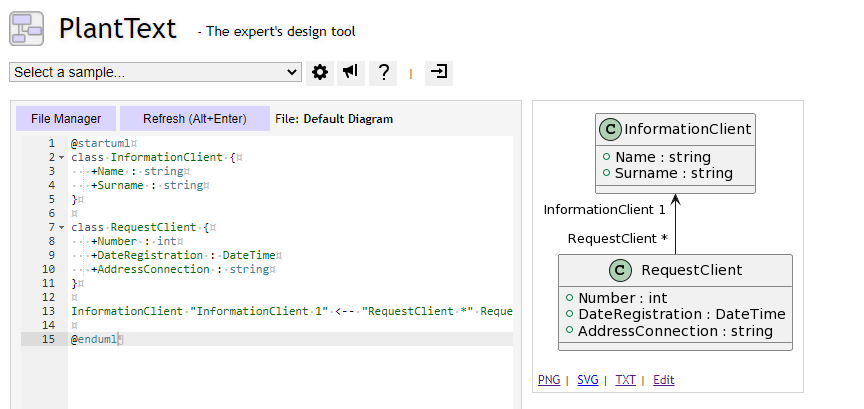
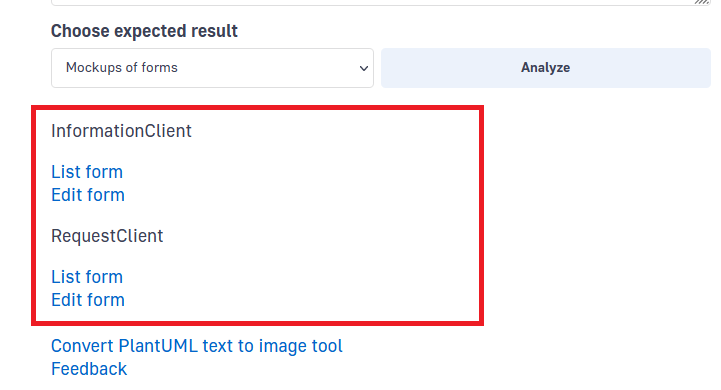
Update site

diff --git a/index.html b/index.html
@@ -70,6 +70,12 @@
   <li class="nav-item">
     <a class="nav-link" href="#how-it-works">How it works</a>
   </li>
+  <li class="nav-item">
+    <a class="nav-link" href="#benefits">Advantages</a>
+  </li>
+  <li class="nav-item">
+    <a class="nav-link" href="#why">Why are we?</a>
+  </li>
 </ul>
     </div><!--.nav-collapse -->
   </div>
@@ -81,10 +87,14 @@
   <div class="leaf d-none"></div>
   <div class="container">
     <h1>AI Assistant for Business Analyst</h1>
-    <p> This helps to reduce 30% of the time business analyst uses for processing requirements <br> and also to generate artifacts. </p>
+    <p> 
+      making it easier and faster for business analysts and other specialists like UI/UX designers to analyze text, 
+      <br>and to generate mockup forms, SQL script and UML diagrams in a minute. 
+    </p>
     <div class="row">
-      <div class="col-lg-6">
-        <a class="btn btn-primary" href="" data-toggle="modal" data-target="#send-modal">Get in touch</a>
+      <div class="col-lg-6 buttons-list">
+        <a class="btn btn-primary" href="" data-toggle="modal" data-target="#send-modal">Purchase</a>
+        <a class="btn btn-primary" href="https://ai-api.flexberry.net/www/demo.html" target="_blank">Demo</a>
       </div>
     </div>
   </div>
@@ -93,8 +103,10 @@
 <section id="about" class="mt-5">
   <div class="container">
     <h1>AI Assistant</h1>
-    <p> An assistant that allows, through artificial intelligence automate some part of the analyst's daily routine work.</p>
-    <h2>Benefits of the AI Assistant</h2>
+    <p>
+      An AI Assistant that allows, through artificial intelligence automate some part of analysts and UI/UX designers day-to day work relating to text.
+    </p>
+    <h2>Features of the AI Assistant</h2>
        <div class="row checked-list">
       <div class="col-xl-4 col-lg-6 col-md-6 col-sm-6 col-12">
         Extracting information from natural language to build an information system
@@ -120,11 +132,14 @@
 
 <section>
   <div class="container">
-    <p>The AI Assistant does not imply a complete replacement of humans, but rather an assistance – reducing the daily routine time performed on texts.
-      Currently, it is a Prototype, which allow to parse a text, build UML Class Diagram and SQL for database. The approach allows a convenient expansion of the set of entities that can be built as a result.</p>
+    <p>
+      As the name suggests, the AI Assistant is for assisting and not completely replacing human task. Reducing the time needed to execute some tasks.
+      Currently, the AI is able to analyze several texts and generate mockup forms, SQL scripts and UML diagrams. We are still developing the product to understand and analyze more texts.
+    </p>
     <div class="row">
-      <div class="col-lg-12 text-center">
-        <a class="btn btn-primary" href="" data-toggle="modal" data-target="#send-modal">Find out more</a>
+      <div class="col-lg-12 text-center buttons-list">
+        <a class="btn btn-primary" href="" data-toggle="modal" data-target="#send-modal">Purchase</a>
+        <a class="btn btn-primary" href="https://ai-api.flexberry.net/www/demo.html" target="_blank">Demo</a>
       </div>
     </div>
   </div>
@@ -134,11 +149,15 @@
   <div class="container">
     <h1>Result</h1>
     <div class="row">
-      <div class="col-lg-6 col-md-6 col-sm-6 col-12">
+      <div class="col-lg-4 col-md-4 col-sm-6 col-12">
+        <img src="/img/interface.svg"/>
+        <span>Mockup forms (both list and edit forms)</span>
+      </div>
+      <div class="col-lg-4 col-md-4 col-sm-6 col-12">
         <img src="/img/flow.svg"/>
         <span>Class diagram</span>
       </div>
-      <div class="col-lg-6 col-md-6 col-sm-6 col-12">
+      <div class="col-lg-4 col-md-4 col-sm-6 col-12">
         <img src="/img/database.svg"/>
         <span>Database </span>
       </div>
@@ -154,19 +173,86 @@
         <img class="img-fluid" src="/img/howitwork1.png"/>
       </div>
       <div class="col-lg-6 col-md-6 col-sm-6 col-12">
-    <span>The AI Assistant is currently a plugin in Google Chrome browser.</span>
+        <p>The AI Assistant is presented on <a href="https://ai-api.flexberry.net/www/demo.html" target="_blank">demo-page</a>.</p>
+        <p>The text should be inserted at corresponding field.</p>
+        <p>Then it is send for processing at AI-algorithm. And the result is presented to the user.</p>
       </div>
       <div class="col-lg-6 col-md-6 col-sm-6 col-12 order-md-2">
-        <img class="img-fluid" src="/img/howitwork2.png"/></span>
+        <img class="img-fluid" src="/img/howitwork2.png"/>
+        </span>
       </div>
       <div class="col-lg-6 col-md-6 col-sm-6 col-12 order-md-1">
-        <span>The selected text via the plugin is analyzed by the AI Assistant (1), and the result is copied and sent for further processing (2).</span>
+        <p>There are several variants of desired results of text processing.</p>
       </div>
       <div class="col-lg-6 col-md-6 col-sm-6 col-12 order-md-2">
         <img class="img-fluid" src="/img/howitwork3.png"/>
       </div>
       <div class="col-lg-6 col-md-6 col-sm-6 col-12 order-md-2">
-        <span>It is possible to insert text directly into the plugin window, or copy the text from any page and insert into the plugin to analyse. In planttext.com the result is a class diagram with relations.</span>
+        <p>For example if "Mockups of forms" is selected then there will be a list of generated mockups: list form and edit form for each recognized class.</p>
+      </div>
+      <div class="col-12 order-md-2">
+        <img class="img-fluid" src="/img/howitwork4.png"/>
+      </div>
+      <div class="col-12 order-md-2">
+        <img class="img-fluid" src="/img/howitwork5.png"/>
+      </div>
+    
+      <div class="col-lg-6 col-md-6 col-sm-6 col-12  order-md-2">
+        <img class="img-fluid" src="/img/howitwork6.png"/>
+      </div>
+      <div class="col-lg-6 col-md-6 col-sm-6 col-12  order-md-2">
+        <p>If "UML class diagram" is selected then processed result may be copied and send to further processing.</p>
+      </div>
+      <div class="col-lg-6 col-md-6 col-sm-6 col-12 order-md-3">
+        <img class="img-fluid" src="/img/howitwork7.png"/>
+      </div>
+      <div class="col-lg-6 col-md-6 col-sm-6 col-12 order-md-2">
+        <p>For example to <a href="https://www.planttext.com/" target="_blank">planttext.com</a>. It will be UML class diagram as result.</p>
+      </div>
+    </div>
+  </div>
+</section>
+
+<section id="benefits">
+  <div class="container">
+    <h1>Advantages</h1>
+    <div class="row checked-list">
+      <div class="col-xl-6 col-lg-6 col-md-6 col-sm-6 col-12">
+        Flexible and easy to master the instrument
+      </div>
+      <div class="col-xl-6 col-lg-6 col-md-6 col-sm-6 col-12">
+        Ability for the AI Assistant to adapt to specific tasks of your company
+      </div>
+      <div class="col-xl-6 col-lg-6 col-md-6 col-sm-6 col-12">
+        Using different scenarios – analysis, design formulation of statements, etc.
+      </div>
+      <div class="col-xl-6 col-lg-6 col-md-6 col-sm-6 col-12">
+        Designing according to industry best practice and requirements
+      </div>
+    </div>
+</section>
+
+<section id="why" class="mb-5">
+  <div class="container">
+    <h1>Wнy are we?</h1>
+    <div class="row">
+      <div class="worth-item col-md-4 col-sm-6 col-6">
+        <img class="img-fluid" src="/img/ai.svg"/>
+        <span>Working in collaboration with scientists and AI experts</span>
+      </div>
+      <div class="worth-item col-md-4 col-sm-6 col-6">
+        <img class="img-fluid" src="/img/business.svg"/>
+        <span>Deeper understanding of business analyst problems because of a close working with analyst from our partnering companies.</span>
+      </div>
+      <div class="worth-item col-md-4 col-sm-6 col-6">
+        <img class="img-fluid" src="/img/cup.svg"/>
+        <span>A decade experience in developing complex applications and services for IT industry</span>
+      </div>
+    </div>
+    <div class="row">
+      <div class="col-lg-12 text-center buttons-list">
+        <a class="btn btn-primary" href="" data-toggle="modal" data-target="#send-modal">Purchase</a>
+        <a class="btn btn-primary" href="https://ai-api.flexberry.net/www/demo.html" target="_blank">Demo</a>
       </div>
     </div>
   </div>
@@ -177,15 +263,14 @@
   <div class="modal-dialog modal-lg">
     <div class="modal-content">
       <div class="modal-header">
-        <h2 class="modal-title">Demo Request</h2>
+        <h2 class="modal-title">Purchase request</h2>
         <button type="button" class="close" data-dismiss="modal" aria-label="Close">
           <span aria-hidden="true">&times;</span>
         </button>
       </div>
       <div class="modal-body">
         <div class="container">
-
-            <script src="https://yastatic.net/s3/frontend/forms/_/embed.js"></script><iframe src="https://forms.yandex.com/u/623ac0eae1900d5a090e3f89/?iframe=1" frameborder="0" name="ya-form-623ac0eae1900d5a090e3f89" width="650"></iframe>
+            <script src="https://yastatic.net/s3/frontend/forms/_/embed.js"></script><iframe src="https://forms.yandex.com/u/623ac0eae1900d5a090e3f89/?iframe=1" frameborder="0" name="ya-form-623ac0eae1900d5a090e3f89" width="100%"></iframe>
         </div>
       </div>
     </div>

diff --git a/css/main.css b/css/main.css
@@ -102,10 +102,17 @@ p {
   width: 199px; }
 
 .btn {
-  border-radius: 20px 0 20px 0;
+  border-radius: 0;
   padding: 11px 15px 14px;
   line-height: 21px;
-  font-weight: 500; }
+  font-weight: 500;
+  min-width: 120px; }
+
+.buttons-list .btn-primary:first-child {
+  border-top-left-radius: 30px; }
+
+.buttons-list .btn-primary:last-child {
+  border-bottom-right-radius: 30px; }
 
 .btn-primary {
   background-color: #25D838;
@@ -203,14 +210,21 @@ p {
   margin-bottom: 50px; }
 
 .worth-item {
-  margin-bottom: 50px; }
+  margin-bottom: 50px;
+  position: relative;
+  display: flex;
+  align-items: center; }
+  .worth-item::before {
+    content: '';
+    border-radius: 100%;
+    width: 80px;
+    height: 80px;
+    background-color: #e9d5fd;
+    position: absolute;
+    z-index: -1; }
   .worth-item h6 {
     margin-bottom: 20px;
     min-height: 42px; }
-  .worth-item.target img {
-    transform: translateX(-18px); }
-  .worth-item.resp img {
-    transform: translateX(-5px); }
   .worth-item span {
     display: block;
     font-size: 14px;
@@ -218,7 +232,8 @@ p {
     line-height: 21px; }
   .worth-item img {
     margin: auto;
-    margin-bottom: 15px; }
+    margin-right: 15px;
+    max-height: 80px; }
 
 .form-control {
   height: 46px;
@@ -866,3 +881,7 @@ select:focus {
   margin-bottom: 2em;
   box-shadow: 0px 0px 4px #303434;
   width: 100%; }
+
+@media (min-width: 992px) {
+  .modal-lg, .modal-xl {
+    max-width: 600px; } }

diff --git a/404/index.html b/404/index.html
@@ -70,6 +70,12 @@
   <li class="nav-item">
     <a class="nav-link" href="#how-it-works">How it works</a>
   </li>
+  <li class="nav-item">
+    <a class="nav-link" href="#benefits">Advantages</a>
+  </li>
+  <li class="nav-item">
+    <a class="nav-link" href="#why">Why are we?</a>
+  </li>
 </ul>
     </div><!--.nav-collapse -->
   </div>

diff --git a/_pages/agree/index.html b/_pages/agree/index.html
@@ -70,6 +70,12 @@
   <li class="nav-item">
     <a class="nav-link" href="#how-it-works">How it works</a>
   </li>
+  <li class="nav-item">
+    <a class="nav-link" href="#benefits">Advantages</a>
+  </li>
+  <li class="nav-item">
+    <a class="nav-link" href="#why">Why are we?</a>
+  </li>
 </ul>
     </div><!--.nav-collapse -->
   </div>

diff --git a/about/index.html b/about/index.html
@@ -70,6 +70,12 @@
   <li class="nav-item">
     <a class="nav-link" href="#how-it-works">How it works</a>
   </li>
+  <li class="nav-item">
+    <a class="nav-link" href="#benefits">Advantages</a>
+  </li>
+  <li class="nav-item">
+    <a class="nav-link" href="#why">Why are we?</a>
+  </li>
 </ul>
     </div><!--.nav-collapse -->
   </div>

diff --git a/agree/index.html b/agree/index.html
@@ -70,6 +70,12 @@
   <li class="nav-item">
     <a class="nav-link" href="#how-it-works">How it works</a>
   </li>
+  <li class="nav-item">
+    <a class="nav-link" href="#benefits">Advantages</a>
+  </li>
+  <li class="nav-item">
+    <a class="nav-link" href="#why">Why are we?</a>
+  </li>
 </ul>
     </div><!--.nav-collapse -->
   </div>
